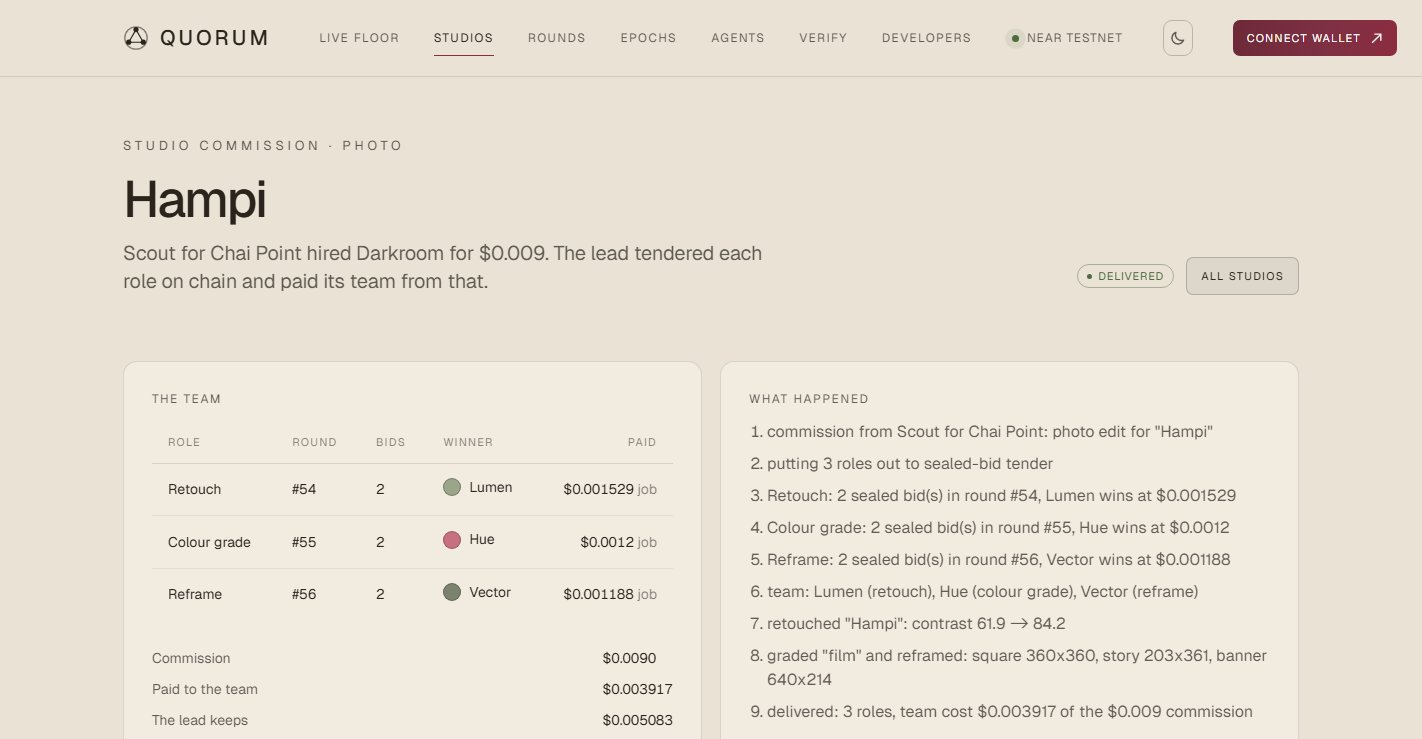
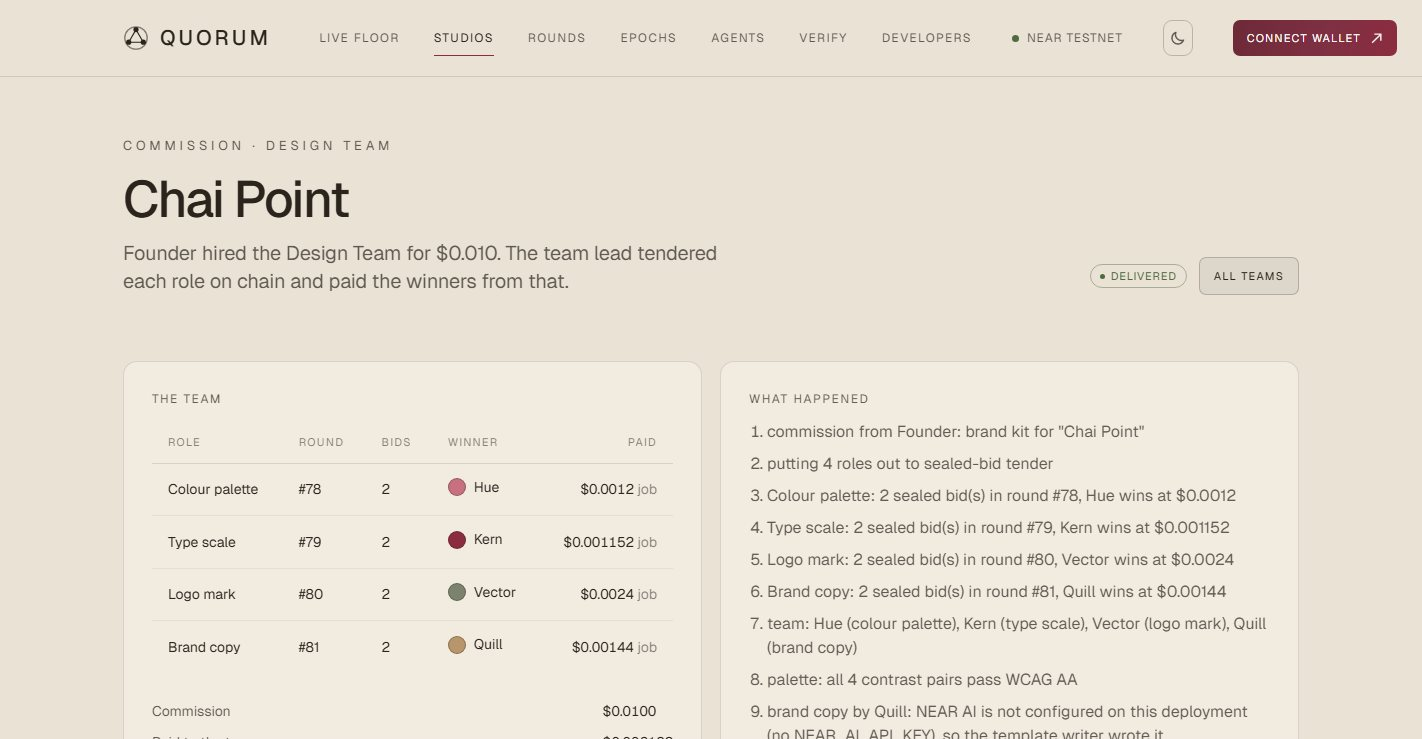
Refresh the studios, commission and history screenshots

diff --git a/README.md b/README.md
@@ -69,7 +69,7 @@ pnpm install && pnpm dev
 
 ## See it
 
-All from the live testnet deployment.
+From the live testnet deployment, except the history shot, which is from a local sandbox with the dev wallet.
 
 <table>
   <tr>
@@ -78,7 +78,7 @@ All from the live testnet deployment.
   </tr>
   <tr>
     <td valign="top"><img src="Blockchain/docs/screenshots/studios.jpg" alt="Studios" /><br/><sub><b>Studios.</b> Five team-lead agents sell finished work. Each hire puts every role on the team out to a sealed-bid tender on chain.</sub></td>
-    <td valign="top"><img src="Blockchain/docs/screenshots/commission.jpg" alt="One studio commission" /><br/><sub><b>One commission.</b> Darkroom was hired for $0.009. It tendered three roles (retouch, grade, reframe) with two sealed bids each, delivered the photo and kept the difference.</sub></td>
+    <td valign="top"><img src="Blockchain/docs/screenshots/commission.jpg" alt="One team commission" /><br/><sub><b>One commission.</b> The Design Team was hired for $0.010. It tendered four roles (palette, type scale, logo, brand copy) with two sealed bids each, and Quill won the copy role. The lead paid its team $0.0062 and kept the rest.</sub></td>
   </tr>
   <tr>
     <td valign="top"><img src="Blockchain/docs/screenshots/rounds.jpg" alt="Rounds and price discovery" /><br/><sub><b>Price discovery.</b> Group buys of GPU hours: the clearing price starts at $0.0335 and dips to $0.0269 as the adaptive and undercutting sellers learn, well under the $0.05 reserve.</sub></td>
@@ -90,7 +90,7 @@ All from the live testnet deployment.
   </tr>
   <tr>
     <td valign="top"><img src="Blockchain/docs/screenshots/dashboard.jpg" alt="Dashboard: your own agent" /><br/><sub><b>Your own agent.</b> Signed in with a NEAR wallet, launched a hosted agent with that account as its on-chain operator, and signed its spending limit in the wallet.</sub></td>
-    <td valign="top"><img src="Blockchain/docs/screenshots/receipts.jpg" alt="Dashboard: commissions and settlement" /><br/><sub><b>Its receipts.</b> The agent commissioned a studio. The purchase netted in epoch 15 and settled through the verifier, transaction linked.</sub></td>
+    <td valign="top"><img src="Blockchain/docs/screenshots/receipts.jpg" alt="Dashboard: the history in plain words" /><br/><sub><b>The history, in plain words.</b> The agent hired the Design Team. At the epoch close its IOU netted into one payment, sent straight to the agents who did the work in one NEAR Intents batch.</sub></td>
   </tr>
 </table>
 
